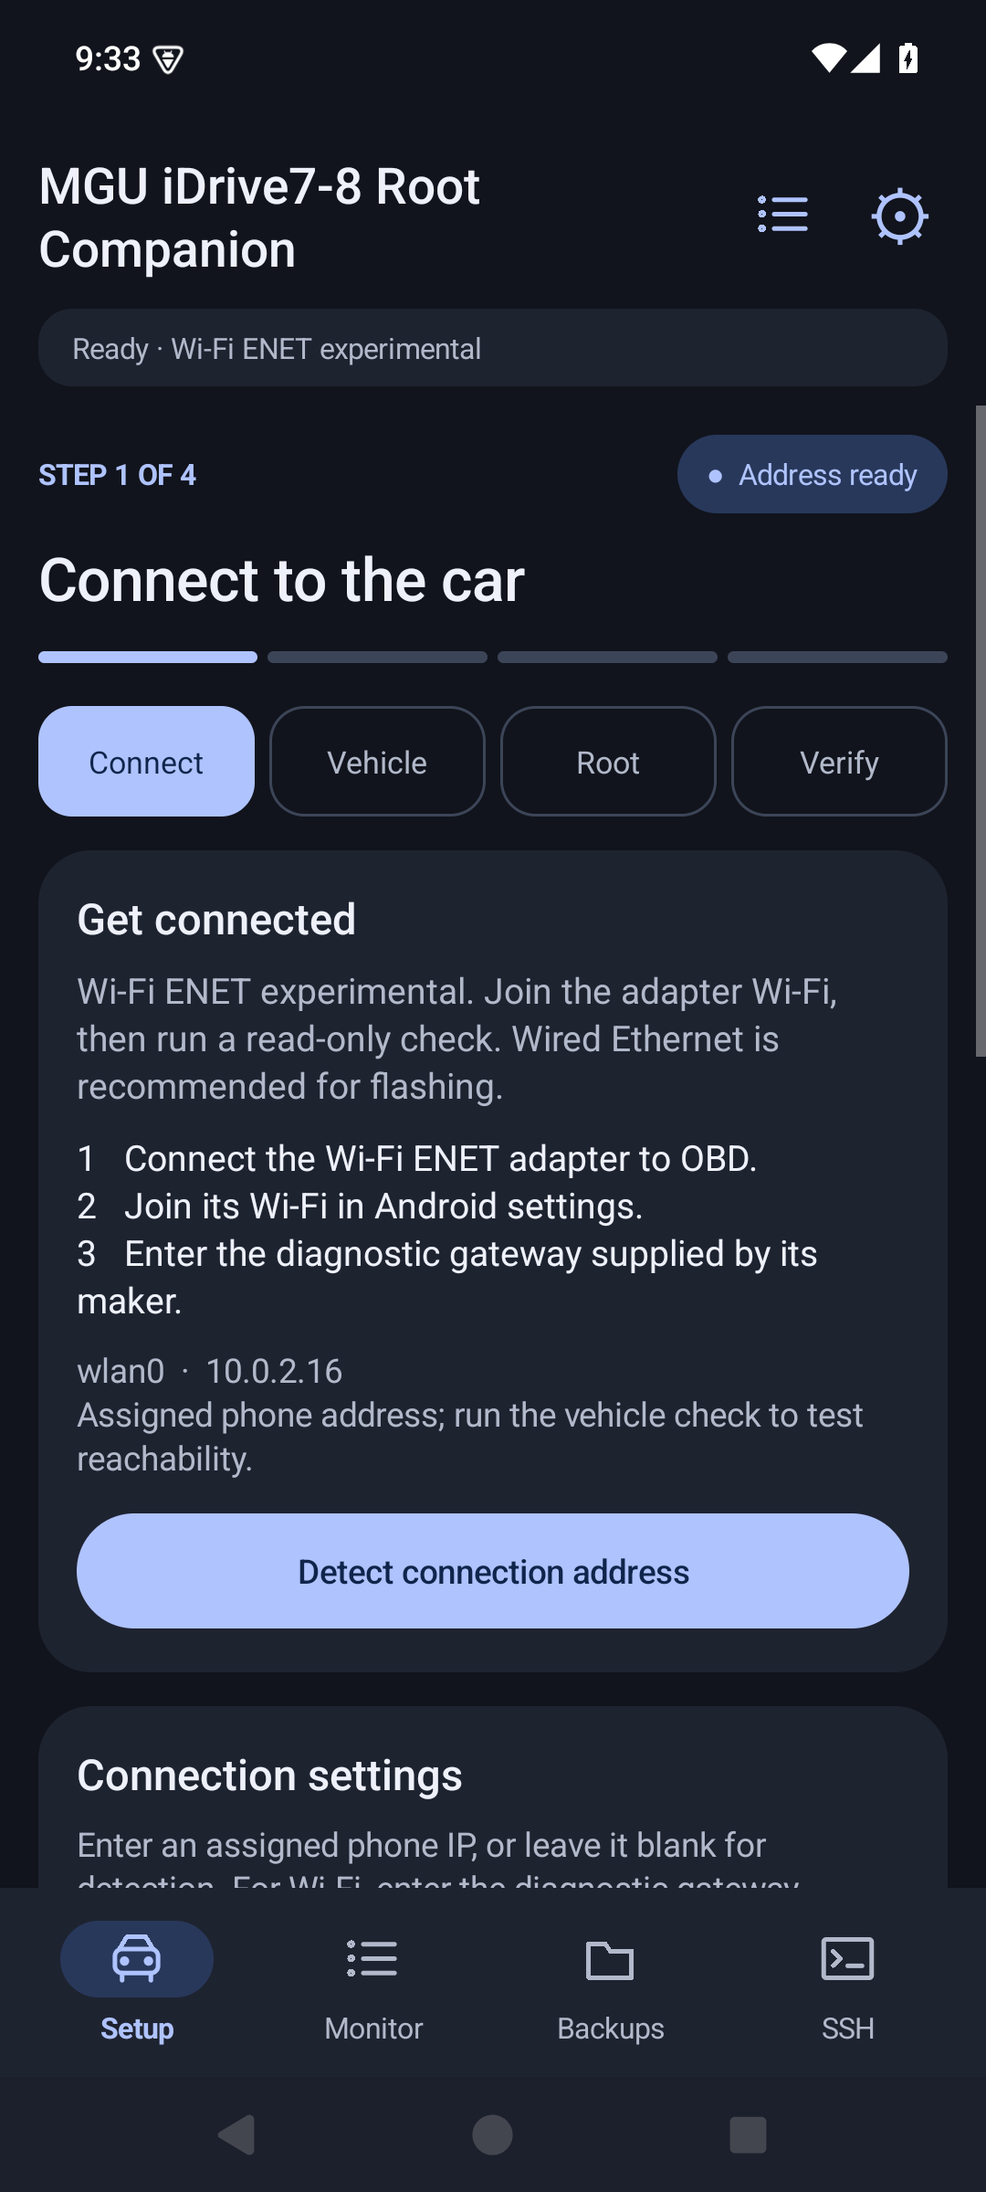
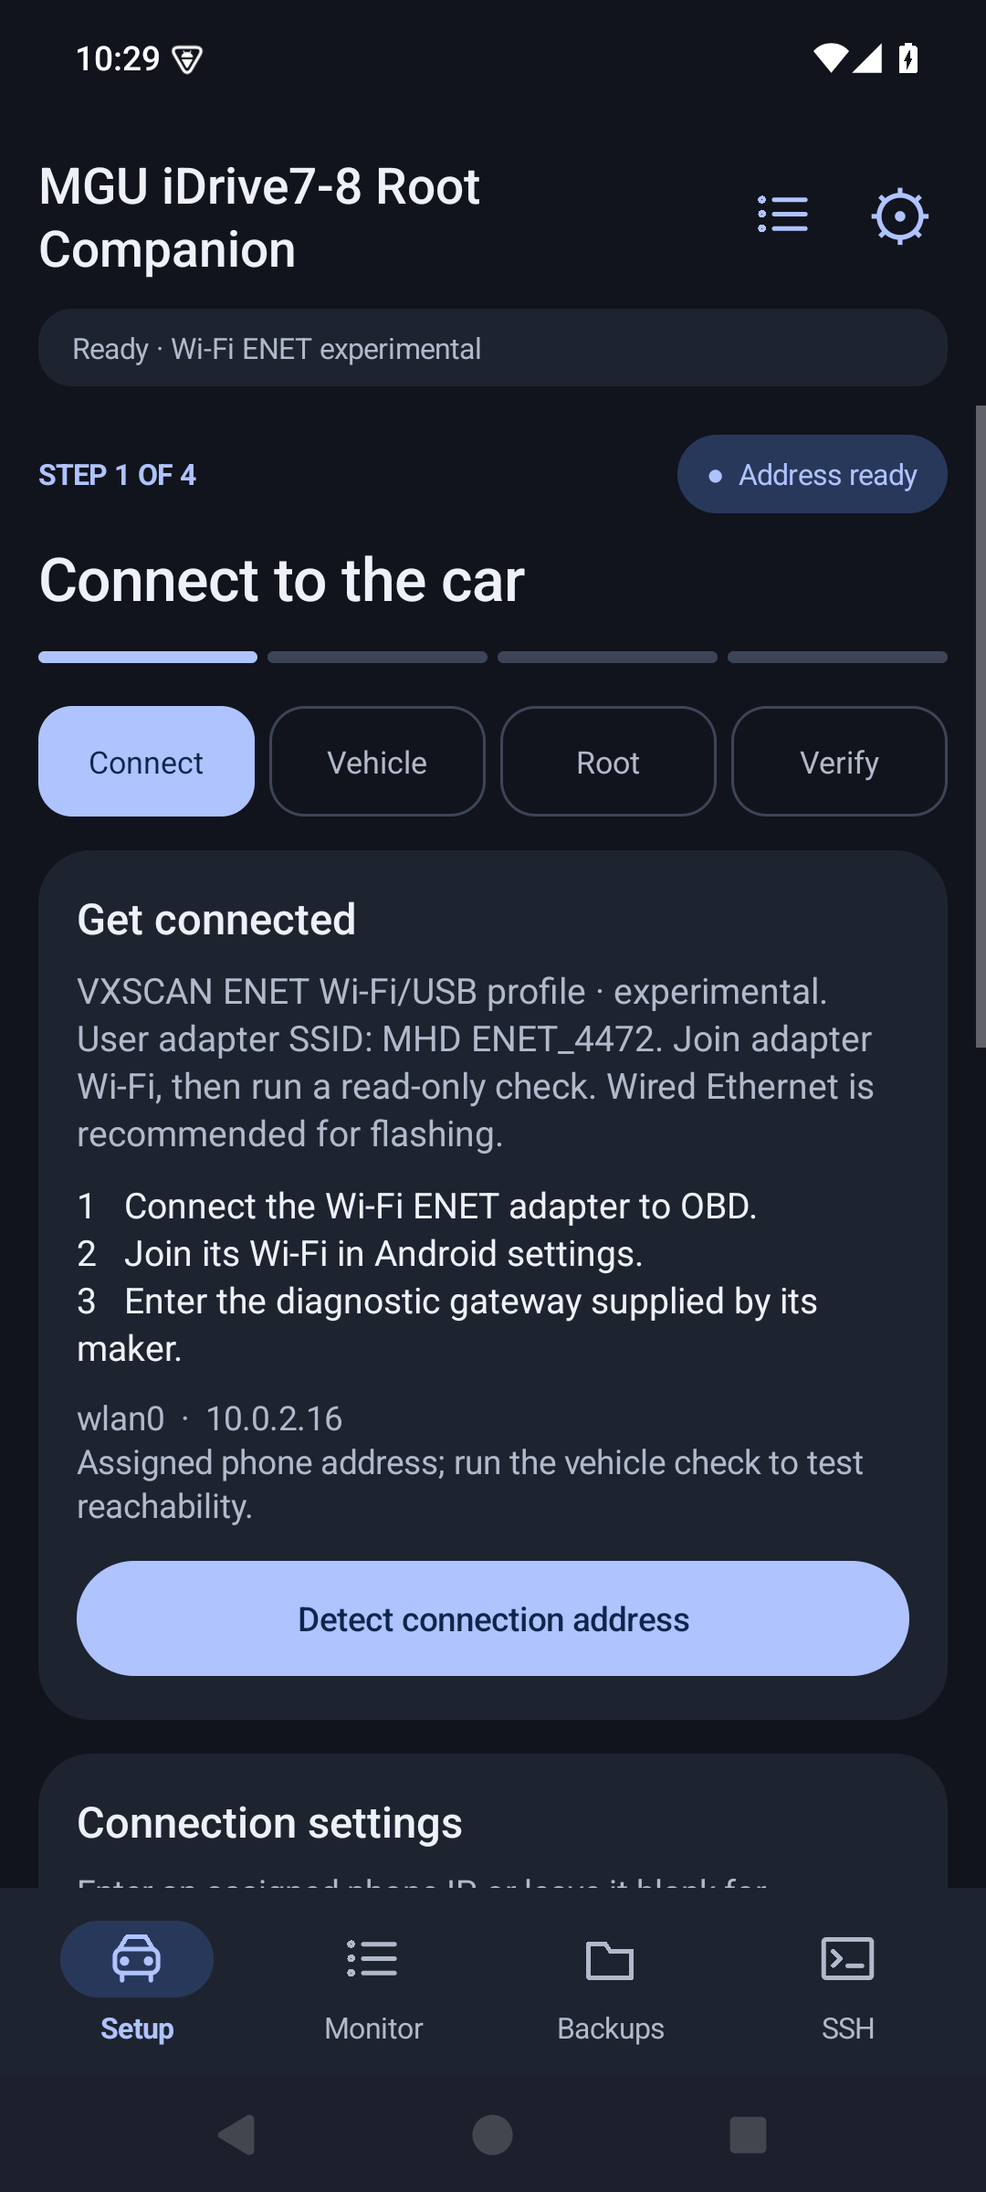
Add files via upload

diff --git a/android/app/src/main/java/dev/mgu/standalone/MainActivity.java b/android/app/src/main/java/dev/mgu/standalone/MainActivity.java
@@ -130,7 +130,7 @@ public final class MainActivity extends Activity {
     }
     private void buildConnectStep() {
         LinearLayout parent=stepPages[0]; card(parent,"Get connected");
-        label(profile.equals("wifi")?"Wi-Fi ENET experimental. Join the adapter Wi-Fi, then run a read-only check. Wired Ethernet is recommended for flashing.":"Use a wired connection with your parked vehicle awake. Start with a read-only connection check.",15,MUTED);
+        label(profile.equals("wifi")?"VXSCAN ENET Wi-Fi/USB profile · experimental. User adapter SSID: MHD ENET_4472. Join adapter Wi-Fi, then run a read-only check. Wired Ethernet is recommended for flashing.":"Use a wired connection with your parked vehicle awake. Start with a read-only connection check.",15,MUTED);
         label(profile.equals("wifi")?"1   Connect the Wi-Fi ENET adapter to OBD.\n2   Join its Wi-Fi in Android settings.\n3   Enter the diagnostic gateway supplied by its maker.":"1   Connect USB-C Ethernet to your phone.\n2   Connect ENET to the car's OBD port.\n3   Check the phone's Ethernet address.",15,INK);
         adapterInfo=label("No assigned connection address detected yet.",14,MUTED); button("Detect connection address",()->detect());
         card(parent,"Connection settings"); label("Enter an assigned phone IP, or leave it blank for detection. For Wi-Fi, enter the diagnostic gateway supplied by the adapter maker.",14,MUTED);
@@ -181,7 +181,7 @@ public final class MainActivity extends Activity {
         card(parent,"Connection security"); legacy=new CheckBox(this); legacy.setText("Allow legacy RSA/SHA1 for this operation"); legacy.setTextSize(14); legacy.setTextColor(INK); legacy.setButtonTintList(ColorStateList.valueOf(BLUE)); body.addView(legacy); label("Advanced opt-in only. No automatic algorithm downgrade is used. Investigate an unexpected changed host key; do not reflash just to repair trust.",13,MUTED); secondary("Review / reset local SSH host key",()->resetHostPin());
         card(parent,"Phone Ethernet · root optional"); label("Only needed if Android settings cannot provide a working wired address and route. Requires a phone that is already rooted and your explicit approval.",14,MUTED); secondary("Configure wired IP using root",()->rootDialog(false)); secondary("Remove this app's rooted network setup",()->rootDialog(true)); secondary("Open battery settings",()->startActivity(new Intent(Settings.ACTION_IGNORE_BATTERY_OPTIMIZATION_SETTINGS)));
         card(parent,"Advanced key repair"); label("Fix refused key re-flashes the head unit and carries the same coding, Digital Key and damage risks as a normal flash. Use it only for the documented key-refusal case.",14,RED); danger("Fix refusing key — re-flash",()->prepare("fix-key"));
-        card(parent,"About this app"); label(APP_NAME+"\nv0.5.0 pre-release · runs entirely on this phone",14,MUTED); secondary("Safety & limitations",()->showSafety());
+        card(parent,"About this app"); label(APP_NAME+"\nv0.6.0 pre-release · runs entirely on this phone",14,MUTED); secondary("Safety & limitations",()->showSafety());
     }
     private void safetyCard(LinearLayout parent) { card(parent,"Experimental · read before changes"); label("Not tested on a physical phone or BMW head unit. Flashing can erase coding and Digital Keys or damage the module. The upstream root login key is shared.",13,MUTED); secondary("Safety information",()->showSafety()); }
     private void showSafety() {

diff --git a/android/app/src/main/java/dev/mgu/standalone/SettingsActivity.java b/android/app/src/main/java/dev/mgu/standalone/SettingsActivity.java
@@ -20,9 +20,9 @@ public final class SettingsActivity extends Activity {
   RadioGroup themes=new RadioGroup(this);box.addView(themes);styleGroup(themes,dark,pad);String[] keys={"auto","light","dark"},names={"Auto · follow phone theme","Light","Dark"};
   for(int i=0;i<3;i++){RadioButton r=new RadioButton(this);r.setId(View.generateViewId());r.setText(names[i]);themes.addView(r);r.setChecked(AppSettings.prefs(this).getString("theme","auto").equals(keys[i]));final String key=keys[i];r.setOnClickListener(v->{AppSettings.prefs(this).edit().putString("theme",key).apply();recreate();});}
   TextView connection=new TextView(this);connection.setText("Connection profile");connection.setTextSize(20);connection.setTextColor(ink);box.addView(connection);
-  String[] modes={"ethernet","wifi"},labels={"USB Ethernet","Wi-Fi ENET · experimental"};RadioGroup routes=new RadioGroup(this);box.addView(routes);styleGroup(routes,dark,pad);
+  String[] modes={"ethernet","wifi"},labels={"USB-C Ethernet adapter","Wi-Fi ENET · VXSCAN / MHD ENET"};RadioGroup routes=new RadioGroup(this);box.addView(routes);styleGroup(routes,dark,pad);
   for(int i=0;i<2;i++){RadioButton r=new RadioButton(this);r.setText(labels[i]);routes.addView(r);r.setChecked(AppSettings.mode(this).equals(modes[i]));r.setEnabled(!BackendService.running);final String mode=modes[i];r.setOnClickListener(v->AppSettings.prefs(this).edit().putString("transport",mode).apply());}
-  TextView help=new TextView(this);help.setText("Join your adapter’s Wi-Fi in Android settings first. Enter its diagnostic gateway on the Connect page. The adapter must forward raw ENET TCP 6801 and head-unit SSH TCP 22. Internet access is not required. Cellular and VPN connections are not selected. Wired Ethernet is recommended for flashing: wireless interruptions can leave the module unusable. No physical adapter or BMW validation is claimed.");help.setTextColor(ink);help.setPadding(0,pad,0,pad);box.addView(help);
+  TextView help=new TextView(this);help.setText("VXSCAN ENET Wi-Fi/USB adapter profile (product-page identification); user-reported Wi-Fi name MHD ENET_4472. Exact hardware identity and SSH compatibility remain unverified. Join adapter Wi-Fi in Android settings first. The observed router 169.254.255.1 is not necessarily the vehicle diagnostic gateway. The phone source is detected automatically; do not copy another device’s IP. Enter its diagnostic gateway on the Connect page. The adapter must forward raw ENET TCP 6801 and head-unit SSH TCP 22. Internet access is not required. Cellular and VPN connections are not selected. Wired Ethernet is recommended for flashing: wireless interruptions can leave the module unusable. No physical adapter or BMW validation is claimed.");help.setTextColor(ink);help.setPadding(0,pad,0,pad);box.addView(help);
   EditText ssh=new EditText(this);ssh.setSingleLine(true);ssh.setHint("Optional Wi-Fi SSH IPv4 override");ssh.setText(AppSettings.prefs(this).getString("ssh_override",""));ssh.setEnabled(!BackendService.running);box.addView(ssh);
   TextView error=new TextView(this);error.setTextColor(ink);box.addView(error);
   back.setOnClickListener(v->{String ip=ssh.getText().toString().trim();if(!ip.isEmpty()&&!EthernetRoute.local(ip)){error.setText("Use a private or usable link-local IPv4 address.");return;}if(!BackendService.running)AppSettings.prefs(this).edit().putString("ssh_override",ip).apply();finish();});

diff --git a/android/app/src/androidTest/java/dev/mgu/standalone/ThemeChecks.java b/android/app/src/androidTest/java/dev/mgu/standalone/ThemeChecks.java
@@ -9,9 +9,10 @@ import java.io.*;
 import java.lang.reflect.Field;
 final class ThemeChecks {
  static void run(Instrumentation t) throws Exception {
-  if(!EthernetRoute.local("192.168.4.1")||!EthernetRoute.local("10.1.2.3")||EthernetRoute.local("8.8.8.8")||EthernetRoute.local("127.0.0.1"))throw new AssertionError("Java IPv4 policy");
+  if(!EthernetRoute.local("169.254.255.106")||!EthernetRoute.local("169.254.255.1")||EthernetRoute.linkLocal("169.254.255.106")||!EthernetRoute.local("192.168.4.1")||!EthernetRoute.local("10.1.2.3")||EthernetRoute.local("8.8.8.8")||EthernetRoute.local("127.0.0.1"))throw new AssertionError("Java IPv4 policy");
   EthernetRoute wifi=EthernetRoute.find(t.getTargetContext(),"","wifi");wifi.assertAvailable();wifi.bindProcess();wifi.release();if(wifi.network==null)throw new AssertionError("Wi-Fi network missing");
   File dir=new File(t.getTargetContext().getExternalFilesDir(null),"theme-previews");dir.mkdirs();
+  Bitmap[] icon=new Bitmap[1];t.runOnMainSync(()->{icon[0]=Bitmap.createBitmap(432,432,Bitmap.Config.ARGB_8888);android.graphics.drawable.Drawable d=t.getTargetContext().getDrawable(R.drawable.ic_mgu);d.setBounds(0,0,432,432);d.draw(new android.graphics.Canvas(icon[0]));});try(OutputStream o=new FileOutputStream(new File(dir,"icon.png"))){icon[0].compress(Bitmap.CompressFormat.PNG,100,o);}icon[0].recycle();
   for(String theme:new String[]{"light","dark","auto"}){
    AppSettings.prefs(t.getTargetContext()).edit().putString("theme",theme).putString("transport","wifi").putString("wifi_gateway","192.168.4.1").commit();
    MainActivity a=(MainActivity)t.startActivitySync(new Intent(t.getTargetContext(),MainActivity.class).addFlags(Intent.FLAG_ACTIVITY_NEW_TASK));t.waitForIdleSync();

diff --git a/tests/test_standalone.py b/tests/test_standalone.py
@@ -45,7 +45,7 @@ class StandaloneTests(unittest.TestCase):
         for field,value in [('wifi_ack',False),('network_id','124'),('ssh_override','192.168.4.4'),('transport','ethernet'),('gateway','8.8.8.8'),('source','127.0.0.1')]:
             with self.assertRaises(ValueError):app.validate(dict(req,**{field:value}),check,now=100)
         for ip in ['10.1.2.3','172.16.0.1','172.31.255.1','192.168.1.2','169.254.2.3']:self.assertTrue(app.local_ip(ip))
-        for ip in ['8.8.8.8','127.0.0.1','0.0.0.0','224.0.0.1','172.32.0.1','169.254.0.1']:self.assertFalse(app.local_ip(ip))
+        for ip in ['8.8.8.8','127.0.0.1','0.0.0.0','224.0.0.1','172.32.0.1']:self.assertFalse(app.local_ip(ip))
 
     def test_lost_network_precedes_diagnostics(self):
         guard=MagicMock(unsafe=True);guard.assertAvailable.side_effect=OSError('selected Wi-Fi lost')
@@ -62,6 +62,14 @@ class StandaloneTests(unittest.TestCase):
         self.assertEqual(result['rc'],0)
         self.assertEqual(backend.Tool.call_args.args[0].mgu_ip,'192.168.4.3')
         self.assertIn('--mgu-ip',backend.main.call_args.args[0])
+
+    def test_adapter_assigned_upper_link_local_wifi_range(self):
+        req=self.request('inspect',transport='wifi',source='169.254.255.106',gateway='169.254.254.36',interface='wlan0')
+        app.validate(req)
+        self.assertTrue(app.local_ip('169.254.255.1'))
+        self.assertTrue(app.local_ip('169.254.255.106'))
+        with self.assertRaises(ValueError):app.validate(dict(req,transport='ethernet'))
+        with self.assertRaises(ValueError):app.validate(dict(req,gateway='8.8.8.8'))
 
     def fixture(self):
         backend=MagicMock(); backend.main.return_value=0

diff --git a/android/app/src/main/java/dev/mgu/standalone/EthernetRoute.java b/android/app/src/main/java/dev/mgu/standalone/EthernetRoute.java
@@ -11,7 +11,7 @@ public final class EthernetRoute {
     public final String source, iface;
     public final Network network;
     private boolean wifi;
-    public static boolean local(String ip){if(linkLocal(ip))return true;if(ip==null||!ip.matches("[0-9]{1,3}(\\.[0-9]{1,3}){3}"))return false;String[] p=ip.split("\\.");int[] n=new int[4];for(int i=0;i<4;i++){n[i]=Integer.parseInt(p[i]);if(n[i]>255)return false;}return n[0]==10 || (n[0]==172&&n[1]>=16&&n[1]<=31) || (n[0]==192&&n[1]==168);}
+    public static boolean local(String ip){if(ip!=null && ip.matches("169\\.254\\.[0-9]{1,3}\\.[0-9]{1,3}")){String[] a=ip.split("\\.");if(Integer.parseInt(a[2])<=255 && Integer.parseInt(a[3])<=255)return true;}if(ip==null||!ip.matches("[0-9]{1,3}(\\.[0-9]{1,3}){3}"))return false;String[] p=ip.split("\\.");int[] n=new int[4];for(int i=0;i<4;i++){n[i]=Integer.parseInt(p[i]);if(n[i]>255)return false;}return n[0]==10 || (n[0]==172&&n[1]>=16&&n[1]<=31) || (n[0]==192&&n[1]==168);}
 
     private final ConnectivityManager manager;
     private EthernetRoute(ConnectivityManager cm,String ip,String name,Network net) { manager=cm; source=ip; iface=name; network=net; }

diff --git a/android/app/src/main/python/standalone_backend.py b/android/app/src/main/python/standalone_backend.py
@@ -17,7 +17,7 @@ _check = None
 
 def local_ip(value):
     ip = ipaddress.IPv4Address(value)
-    return (ip.is_link_local and ip.packed[2] not in (0,255)) or any(ip in ipaddress.IPv4Network(n) for n in ('10.0.0.0/8','172.16.0.0/12','192.168.0.0/16'))
+    return ip.is_link_local or any(ip in ipaddress.IPv4Network(n) for n in ('10.0.0.0/8','172.16.0.0/12','192.168.0.0/16'))
 
 
 def validate(request, check=None, now=None):

diff --git a/RELEASE-NOTES.md b/RELEASE-NOTES.md
@@ -1,16 +1,15 @@
-# v0.5.0 — Pre-release
+# v0.6.0 — Pre-release
 
-- Added matching app settings with Light, Dark and Auto appearance.
-- Added separate saved USB Ethernet and experimental Wi-Fi ENET profiles.
-- Added Wi-Fi network/source binding, connection-loss checks and optional private IPv4 SSH override.
-- Compatibility authorization now also matches the selected transport, Android network and SSH override.
-- Added explicit wireless-interruption acknowledgement before Wi-Fi flash/fix-key.
-- Preserved the four tabs, typed VIN authorization, backup acknowledgement and upstream rooting assets/workflow.
+- Added named VXSCAN ENET Wi-Fi/USB connection guidance; user-reported adapter SSID MHD ENET_4472. Hardware identity and SSH forwarding remain unverified.
+- Fixed Wi-Fi validation to accept adapter-assigned 169.254.255.x source/router addresses, including the range shown in user photos. Wired automatic address rules remain unchanged.
+- Preserved standard USB-C Ethernet, Light/Dark/Auto themes, separate saved profiles, selected-network binding and all existing authorization safeguards.
+- Added BMW MGU lettering inside the existing terminal icon.
+- Package identity/signing retained; versionCode4, versionName0.6.0-pre-release.
 
-Wi-Fi requires an adapter forwarding raw diagnostic TCP 6801 and SSH TCP 22. Join its SSID manually and enter its diagnostic gateway. Successful diagnostic inspection does not guarantee post-flash SSH routing. Wired Ethernet is recommended for flashing.
+The photographed device's client address is not a phone preset. The router 169.254.255.1 is not confirmed as a diagnostic or SSH endpoint. See docs/WIFI-ADAPTER.md. Wi-Fi requires raw diagnostic TCP6801 and head-unit SSH TCP22 routing. Prefer wired Ethernet for flashing.
 
-Build, offline and emulator checks only. Not tested on a physical phone, Wi-Fi ENET adapter or real BMW head unit. Flashing can brick the module, erase coding/CAFD and delete Digital Key pairings.
+Build, offline and emulator checks only. Not tested on a physical phone, Wi-Fi adapter or BMW head unit. Flashing can brick the module, erase coding/CAFD and delete Digital Key pairings.
 
-Full credit for the original rooting work goes to [cauliflowermossgrape/idrive7-8-ssh-root](https://github.com/cauliflowermossgrape/idrive7-8-ssh-root). This is an Android adaptation of that work.
+Full credit for the original rooting work goes to https://github.com/cauliflowermossgrape/idrive7-8-ssh-root . This is an Android adaptation of that work. No BMW affiliation is claimed.
 
-Publish with tag **v0.5.0** and GitHub’s **Set as a pre-release** option enabled.
+Publish with GitHub tag v0.6.0 and Set as a pre-release enabled.

diff --git a/README.md b/README.md
@@ -2,7 +2,7 @@
 
 An experimental, self-contained **Android version of [idrive7-8-ssh-root](https://github.com/cauliflowermossgrape/idrive7-8-ssh-root)** for BMW MGU iDrive 7/8 head units over USB Ethernet or experimental Wi-Fi ENET.
 
-**v0.5.0 pre-release**
+**v0.6.0 pre-release**
 
 ## Full credits
 
@@ -17,7 +17,7 @@ This project is an Android adaptation of the author's work, adding a phone inter
 - **Backups:** private key/data export and read-only coding dumps.
 - **SSH:** repair, persistence and access-management controls.
 - **Settings:** Light, Dark or Auto appearance; separate USB/Wi-Fi connection profiles.
-- **Wi-Fi ENET (experimental):** selected-network routing and optional private IPv4 SSH override.
+- **Wi-Fi ENET (experimental):** VXSCAN ENET Wi-Fi/USB profile, including the user-reported MHD ENET_4472 address range; selected-network routing and optional SSH override.
 - Runs entirely on the phone: **no PC or Termux required at runtime**.
 
 <img src="docs/images/light.png" alt="Light appearance — emulator preview" width="260" /> <img src="docs/images/dark.png" alt="Dark appearance — emulator preview" width="260" />
@@ -38,6 +38,10 @@ This project is an Android adaptation of the author's work, adding a phone inter
 2. Open the gear icon to choose Light, Dark or Auto and USB Ethernet or Wi-Fi ENET. Join adapter Wi-Fi in Android settings, enter its diagnostic gateway on Connect, then select the actual head-unit variant.
 3. Run **Check compatibility & read VIN** first and verify the VIN physically.
 4. Read the warnings and verify a restorable coding backup before considering any flash.
+
+See [adapter setup and identity limitations](docs/WIFI-ADAPTER.md). Standard USB-C Ethernet support remains available. The app icon now includes BMW MGU text.
+
+<img src="docs/images/icon.png" alt="BMW MGU companion icon" width="108" />
 
 ## Wi-Fi ENET limitations
 

diff --git a/docs/WIFI-ADAPTER.md b/docs/WIFI-ADAPTER.md
@@ -1,0 +1,18 @@
+# VXSCAN ENET Wi-Fi/USB profile (experimental)
+
+Product-page identification: VXSCAN ENET WIFI/USB DoIP adapter, Automan item OVXT006. Source: https://automan.co/productdetail/3586.html
+User photographs show SSID MHD ENET_4472 and a connected Android device with IP 169.254.255.106, router/DNS 169.254.255.1, subnet 255.255.0.0. Exact hardware/firmware identity and SSH forwarding remain unverified. An SSID is not proof of make or model.
+
+## Connection
+
+1. Choose Wi-Fi ENET in App settings. Standard USB-C Ethernet remains a separate supported profile.
+2. Join the adapter SSID using Android Wi-Fi settings; stay connected without internet.
+3. Detect the actual phone source address. Do not copy the photographed device's IP: each client needs its own address.
+4. Enter the vehicle diagnostic gateway. The Wi-Fi router 169.254.255.1 is not confirmed as the diagnostic gateway. Obtain the diagnostic endpoint from adapter documentation or a known working setup; do not assume the router is it.
+5. Leave SSH override blank unless the actual reachable head-unit SSH address is known. Start with read-only compatibility/VIN checks.
+
+Wi-Fi accepts adapter-assigned IPv4 link-local addresses including 169.254.255.x, plus RFC1918 addresses. Source and destination must differ. Public, loopback and multicast addresses remain blocked. USB Ethernet address restrictions and the optional wired root helper remain unchanged.
+
+The adapter must carry raw BMW ENET/HSFZ TCP6801 and head-unit SSH TCP22. General DoIP/BimmerCode support does not prove SSH forwarding. A successful diagnostic check cannot certify post-flash SSH access. No physical adapter, phone or BMW head unit has been validated by this project. Prefer wired Ethernet for programming.
+
+Wi-Fi credentials, MAC addresses and user photographs are not bundled in the source or APK.

diff --git a/VALIDATION-v0.6.0.md b/VALIDATION-v0.6.0.md
@@ -1,0 +1,7 @@
+# v0.6.0 pre-release validation
+
+Build and lint passed, zero lint errors. Fourteen offline coordinator tests passed, including a Wi-Fi source 169.254.255.106, acceptance of adapter router 169.254.255.1 as a permitted local address (not evidence of diagnostic reachability), continued wired-source rejection of the reserved upper range, and public-address rejection.
+
+Android35 x86_64 emulator installed the APK over the previous build. Embedded Python3.13.16, cryptography42.0.8, bundled SSH key, all three original contracts and Java callback passed without vehicle traffic. Light/Dark/Auto, Wi-Fi profile, Java address-policy regression, emulator network binding/release, settings UI, four tabs, form retention and blocked empty flash authorization passed. Native libraries and APK checked for 16KB alignment and signature identity retained.
+
+Source upstream files remain unchanged. No physical phone, adapter, MGU SSH or BMW programming was tested. General adapter product claims and user network screenshots do not establish interoperability. Existing dependency caveats in VALIDATION.md apply.

diff --git a/docs/BUILD-AND-USAGE.md b/docs/BUILD-AND-USAGE.md
@@ -1,3 +1,5 @@
+Current release: **v0.6.0 pre-release**, versionCode4. See [adapter guide](WIFI-ADAPTER.md). Use GitHub tag v0.6.0 and mark the release as a pre-release. The earlier release documentation below remains historical.
+
 # v0.5.0 pre-release additions
 
 Use the gear at the top of the app for Light, Dark and Auto (phone system theme). Preferences persist across restarts. The four main tabs remain available.

diff --git a/VALIDATION.md b/VALIDATION.md
@@ -1,3 +1,5 @@
+Current version: [v0.6.0 validation](VALIDATION-v0.6.0.md).
+
 For the current pre-release, see [v0.5.0 validation](VALIDATION-v0.5.0.md). The following records earlier version checks.
 
 # MGU iDrive7-8 Root Companion v0.4.0 validation
